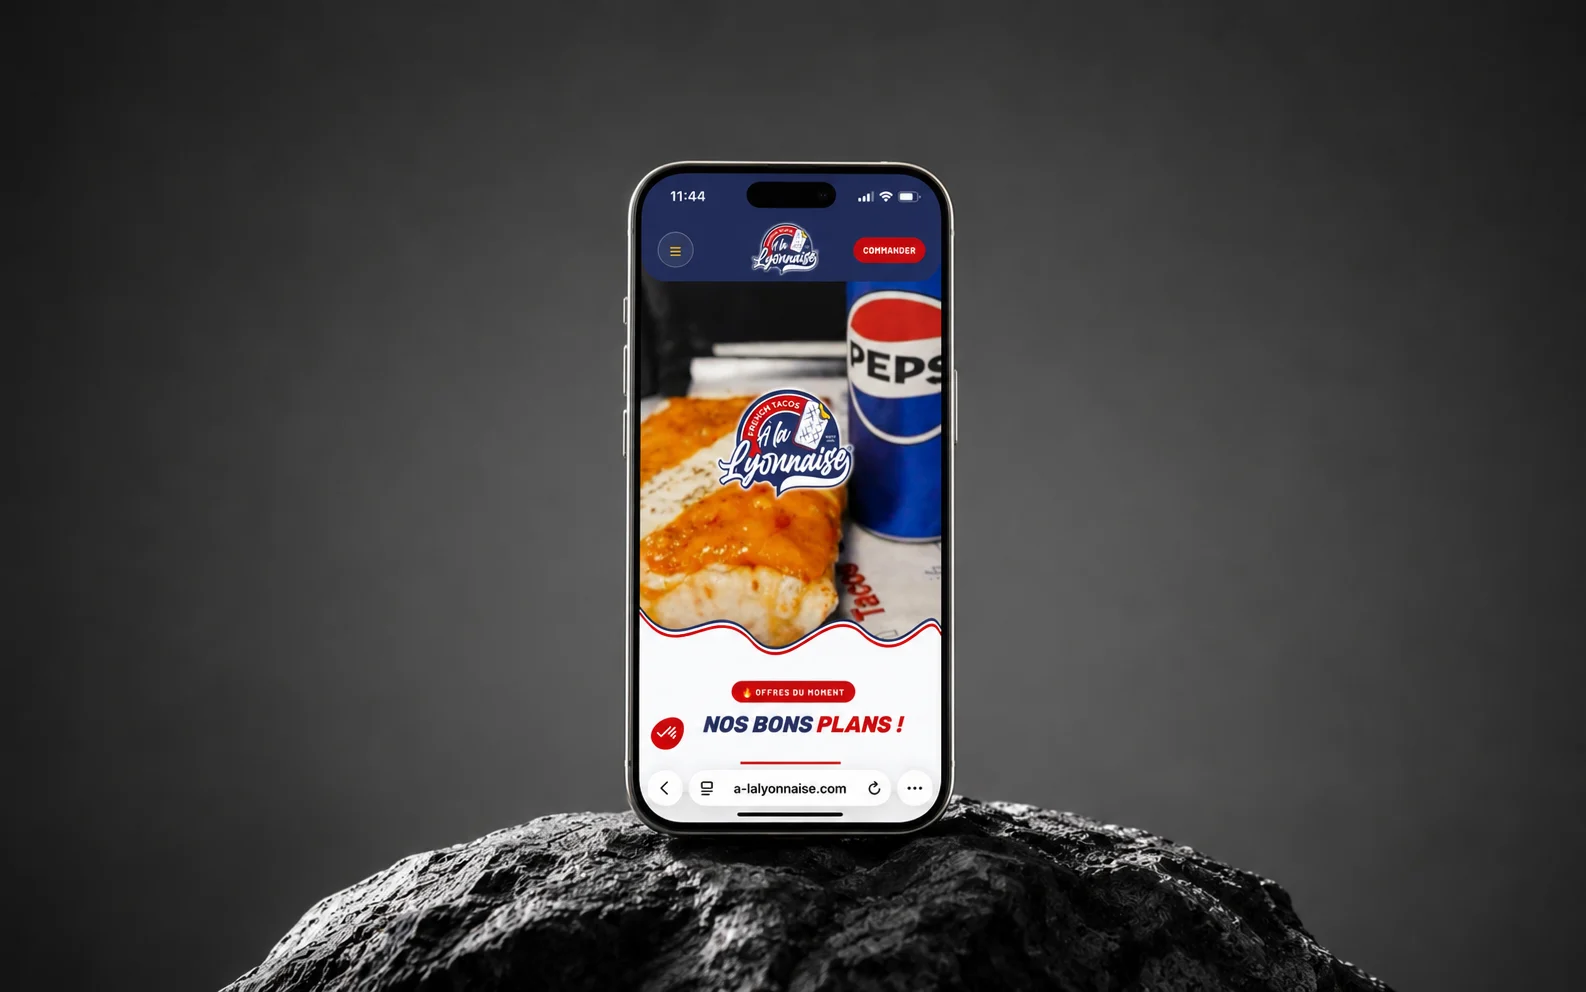
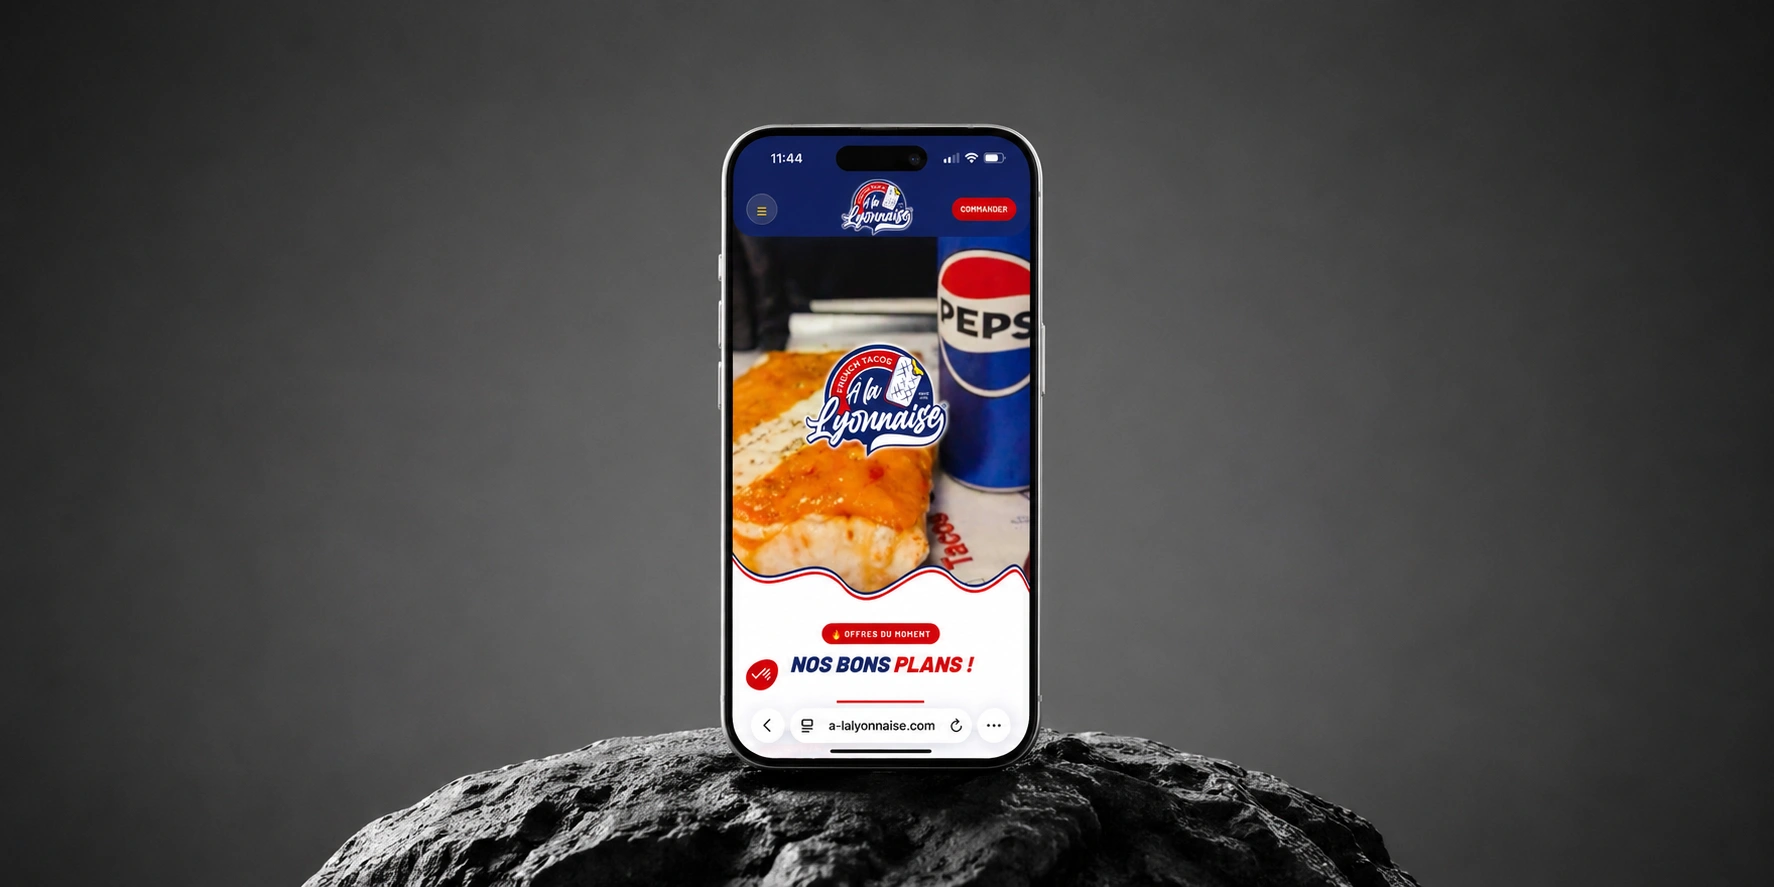
Projets : panneau 2 = OFFGRID (Agent IA SAV, tag Automatisation IA)

Changed region(s): [[0.1236, 0.1218, 0.896, 1.0], [0.6488, 0.9741, 0.6797, 1.0]]

diff --git a/lib/content.ts b/lib/content.ts
@@ -134,9 +134,9 @@ export const projects = {
     },
     {
       slug: "realite-virtuelle",
-      subtitle: "Scène futuriste avec un casque VR élégant",
-      title: "Réalité virtuelle",
-      tags: ["Identité de marque", "SEO"],
+      subtitle: "Création Agent IA SAV",
+      title: "OFFGRID",
+      tags: ["Automatisation IA"],
       image: "/projects/project-2.webp",
     },
     {